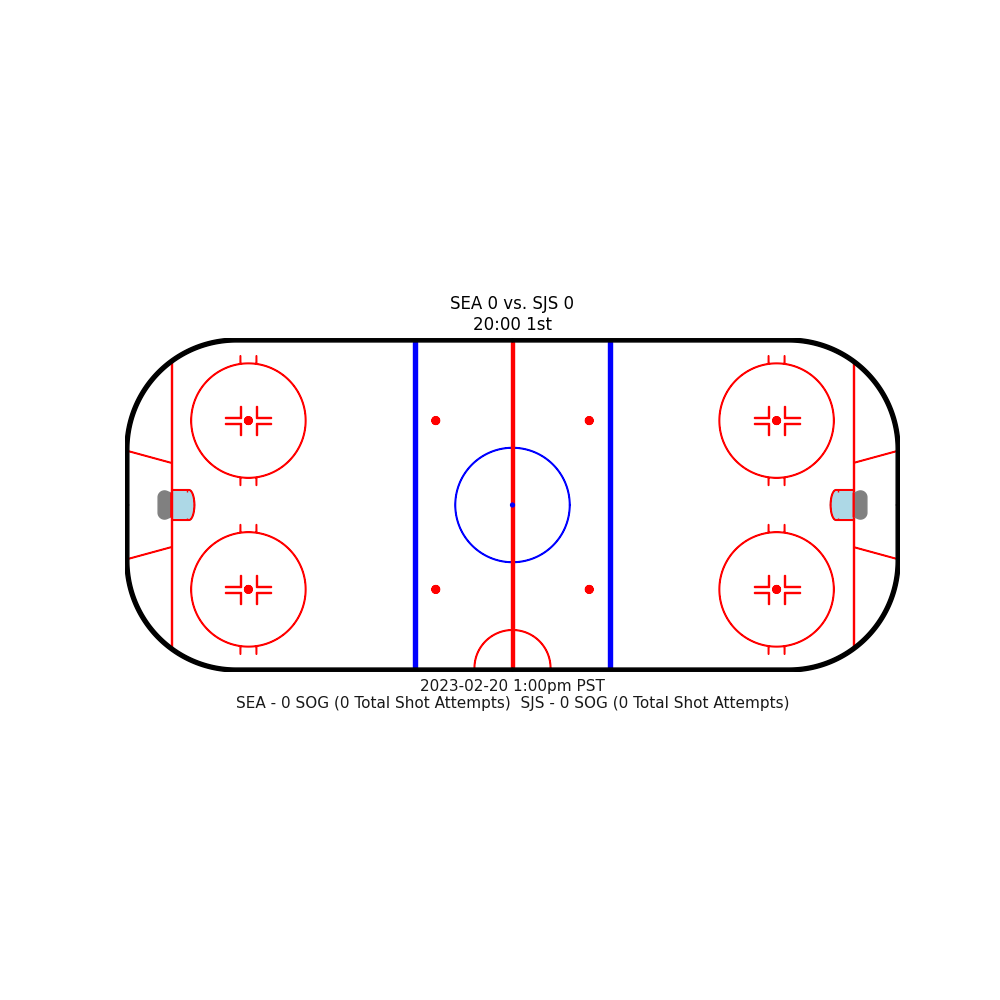
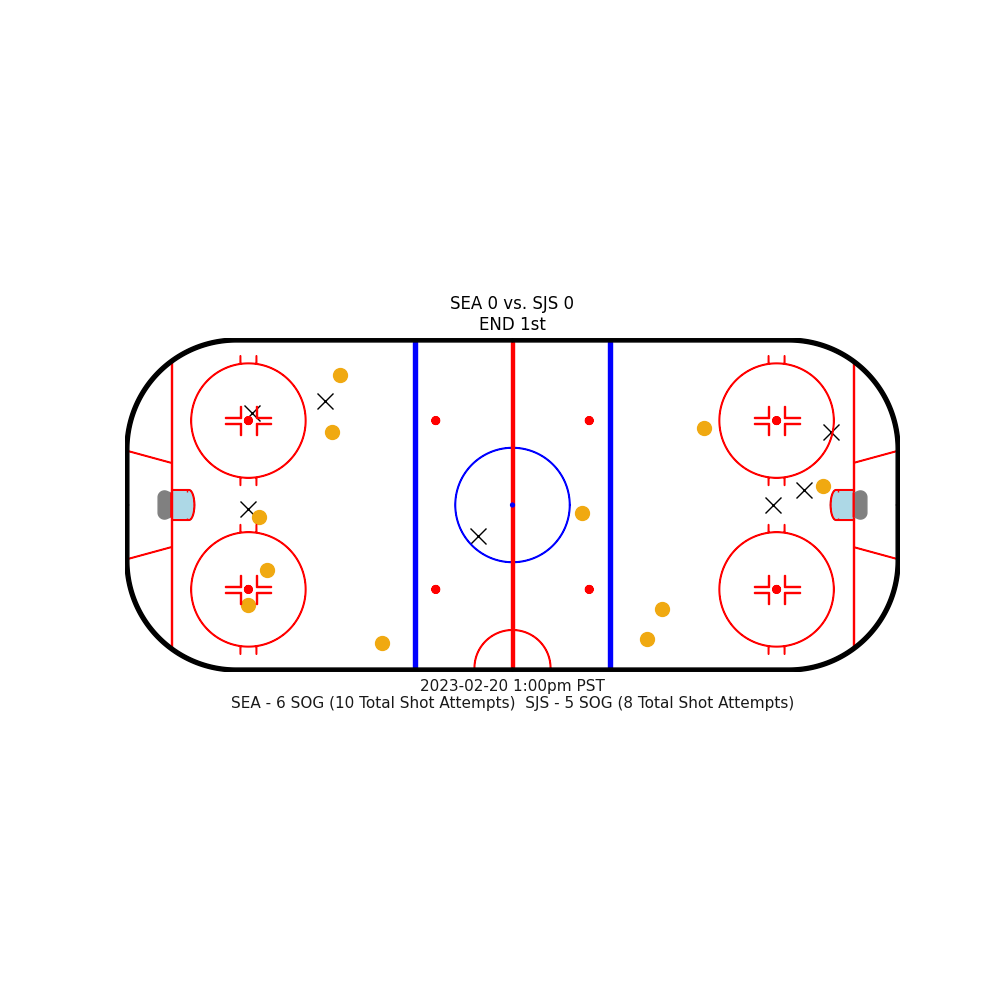
Add the shot chart for today's game - currently in progress

diff --git a/examples/Python - NHL API - Generate a shot chart for a specific NHL game ID/README.md b/examples/Python - NHL API - Generate a shot chart for a specific NHL game ID/README.md
@@ -4,10 +4,7 @@ This project will explore getting started developing with [Python](https://www.p
 
 The example Python script at [./NHLShotChart.py](./NHLShotChart.py) will allow you to generate charts using a game ID from the NHL API to see where players either had a goal or a shot on goal. You can optionally enable displaying all shot attempts, as well.
 
-![](./images/shot-chart-2022020894-2023-02-18_730pm_PST-DET-vs-SEA.png)
-![](./images/shot-chart-2022020876-2023-02-16_700pm_PST-PHI-vs-SEA.png)
-![](./images/shot-chart-2022020860-2023-02-14_500pm_PST-SEA-vs-WPG.png)
-![](./images/shot-chart-2022020848-2023-02-12_1000am_PST-SEA-vs-PHI.png)
+![](./images/shot-chart-2022020905-2023-02-20_100pm_PST-SEA-vs-SJS.png)
 
 ## Local development
 
